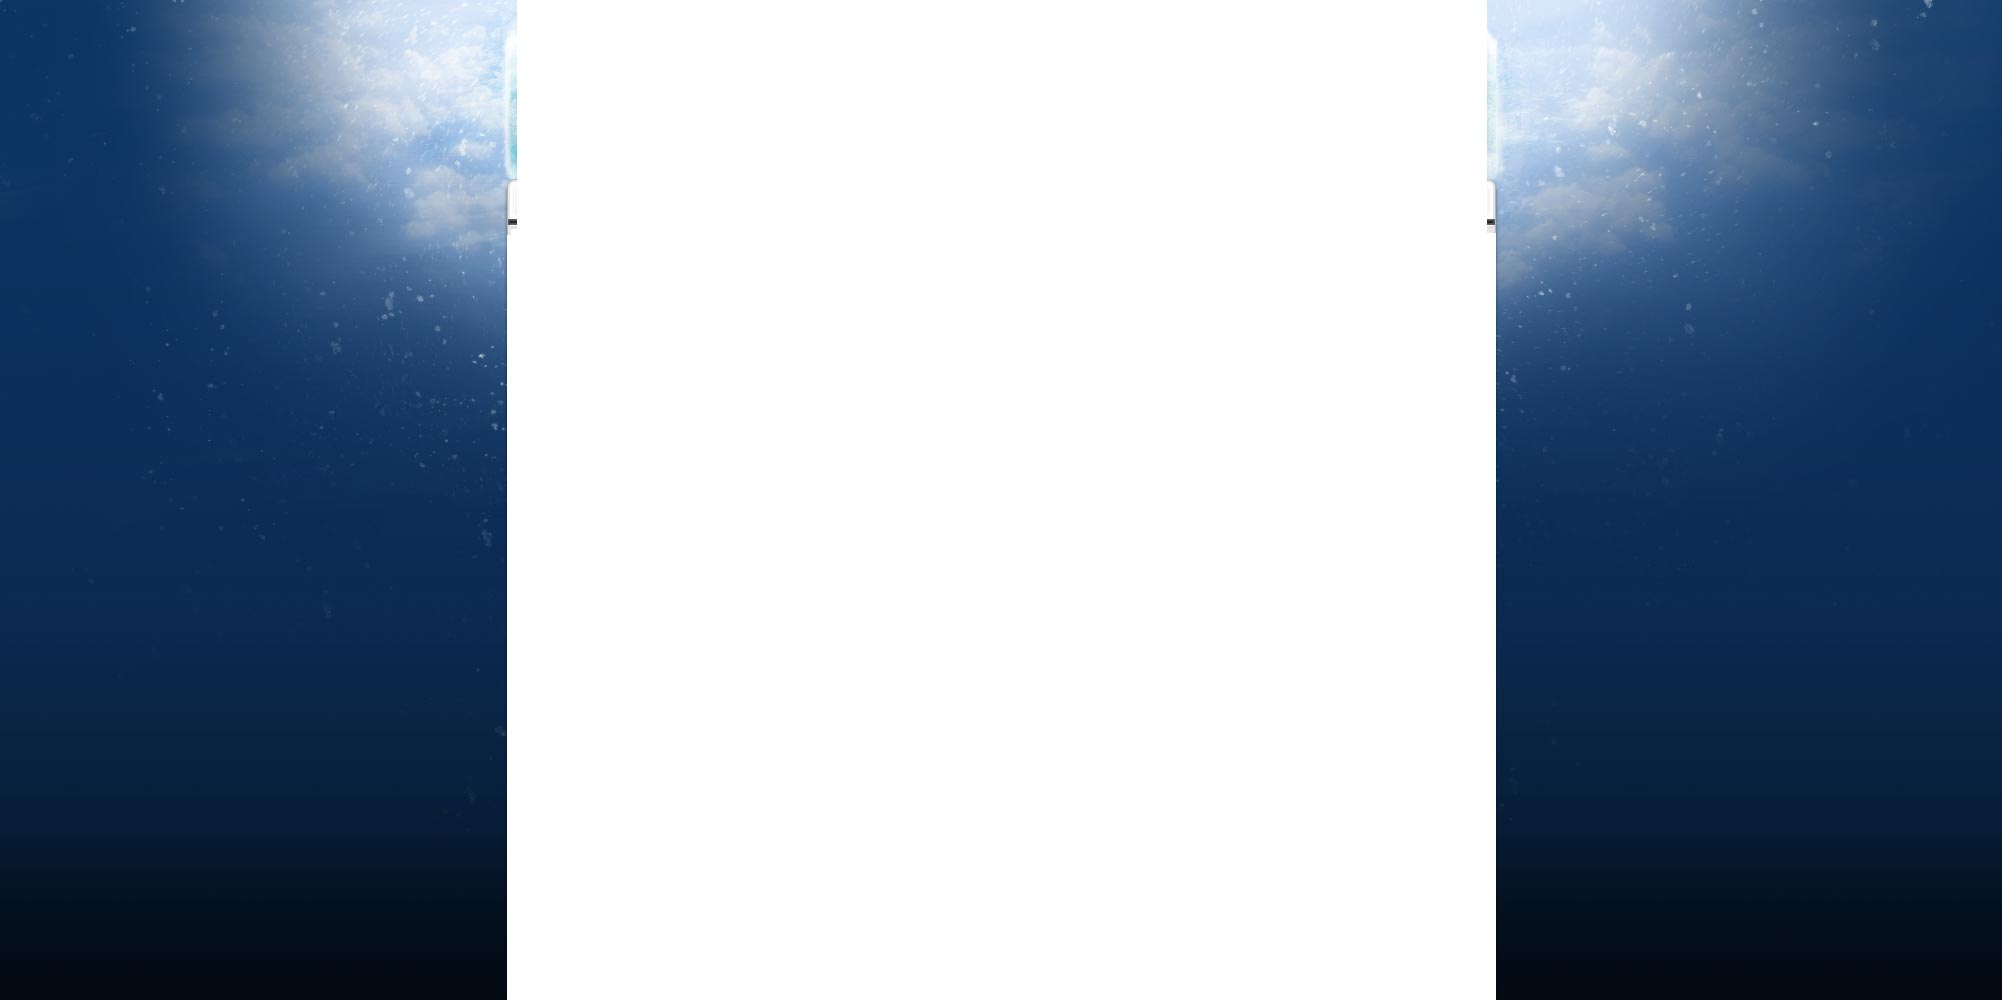
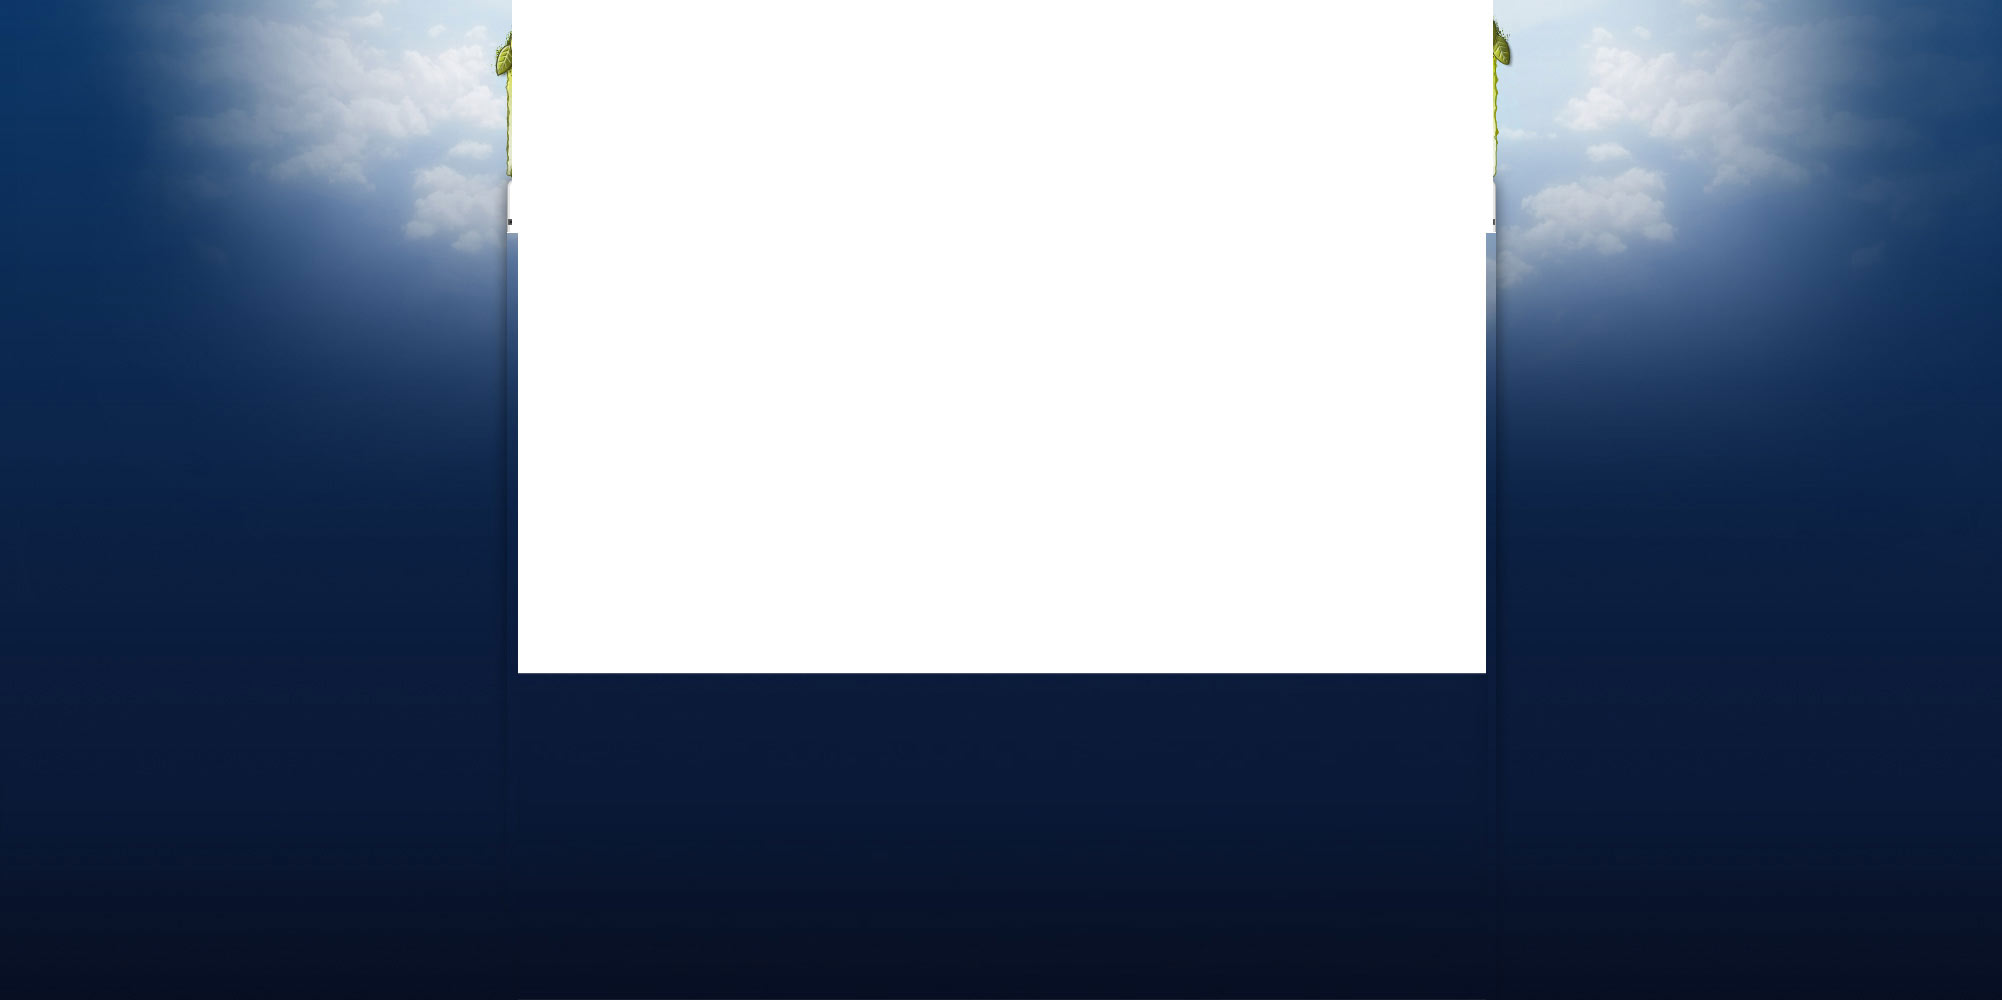
summer10 skin update

Changed region(s): [[0.2478, 0.0, 0.96, 1.0], [0.0929, 0.0, 0.2787, 0.217]]

diff --git a/extensions/asm.summer10/src/asm/summer10/static/style.css b/extensions/asm.summer10/src/asm/summer10/static/style.css
@@ -46,12 +46,12 @@ margin:0 auto;
 width:994px;
 }
 #header {
-background:url("images/header-bg2.jpg") no-repeat;
+background:url("images/header-bg.jpg") no-repeat;
 color:#eee;
 height:177px;
 }
 #subheader {
-background:url("images/subheader-bg.gif") no-repeat;
+background:url("images/subheader-bg.png") no-repeat;
 color:#585858;
 height:33px;
 padding:15px 20px 0 20px;
@@ -81,7 +81,7 @@ width:197px;
 float:right;
 }
 #footer {
-background:url("images/footer-bg.jpg") no-repeat transparent;
+background:url("images/footer-bg.gif") no-repeat transparent;
 clear:both;
 color:#ccc;
 height:127px;
